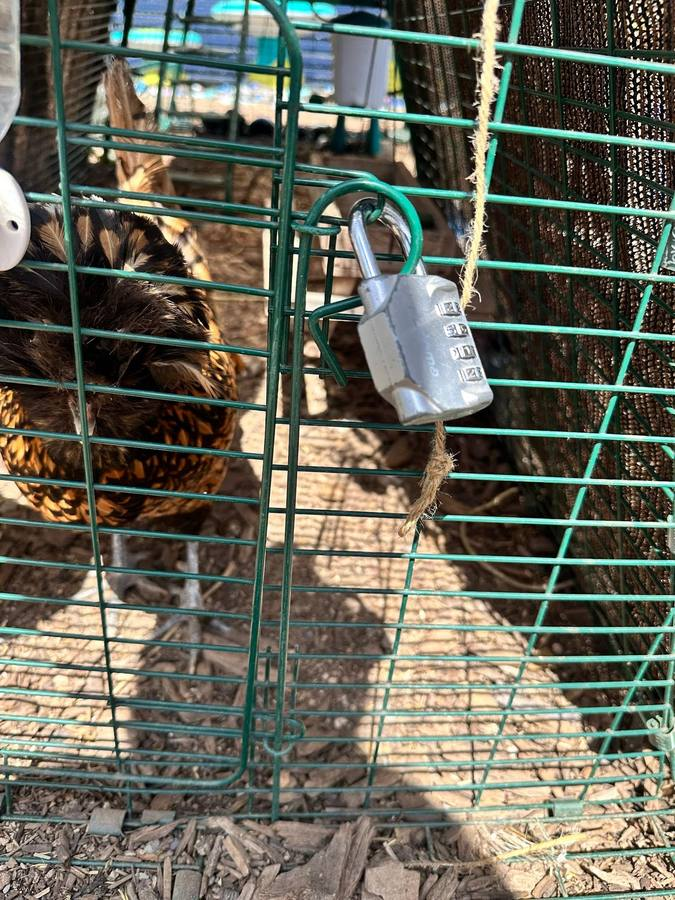
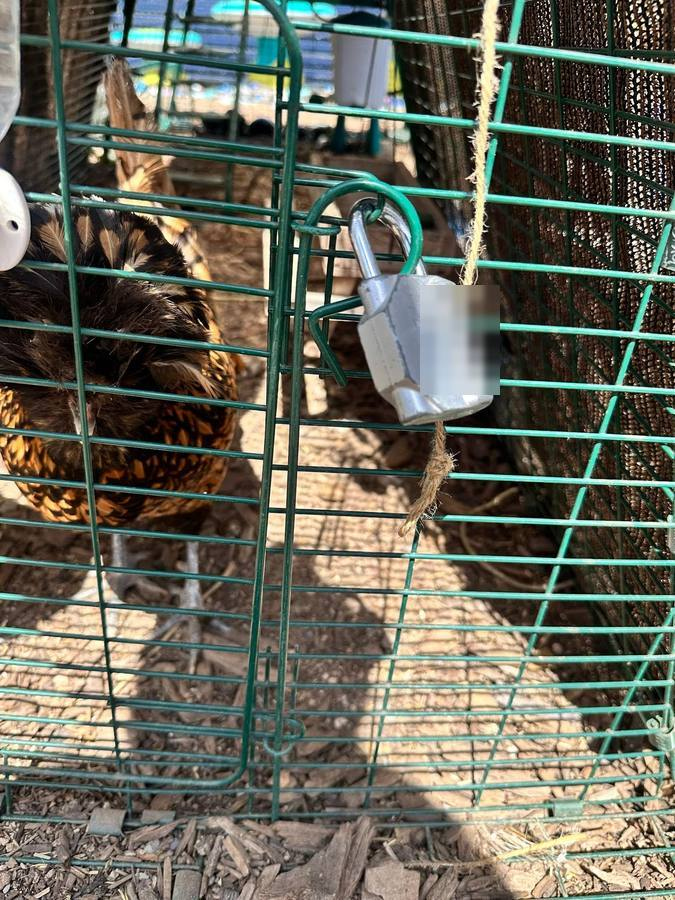
How-to: volunteers ask Yvy for the lock code instead of reading it on the site
Drops the shed lock photo (its dials showed the code) and blurs the
chicken run lock's dials.

Changed region(s): [[0.6222, 0.3111, 0.7467, 0.4356]]

diff --git a/js/data.js b/js/data.js
@@ -1617,7 +1617,8 @@ window.YVY = {
    * HOW-TO (Garden Society → 📖 How-to tab, built by js/howto.js): step-by-step photo guides from the
    * volunteer directions doc. Photos are in images/howto/ (pics: { file name: alt text }).
    * A step can be a name from shared ("shed", "faucet") to drop in those steps, so guides that start the
-   * same way only say it once. {code} in a step is filled in with code.
+   * same way only say it once. {code} in a step becomes a note to ask Yvy for the lock code (askCode).
+   * The code itself never goes on the site: volunteers get it from Yvy.
    * Map spots and Volunteer Days jobs with howto: "<key>" get a button that opens that guide.
    */
   howTo: {
@@ -1625,11 +1626,11 @@ window.YVY = {
     title: "Volunteer How-to",
     intro: "Step-by-step pictures for watering and chicken care. Tap a photo to see it big!",
     rule: "Please don't go into any rooms or use the electricity.",
-    code: "5055", // the shed and chicken-area code
+    askCode: "Ask Yvy for the code",
     shared: {
       shed: [
         { text: "Go into the Central Garden. The shed with the schedules is next to the YMCA room.", pics: { shed: "The garden shed's doors with the schedules taped on" } },
-        { text: "Unlock the shed. The code is {code}.", pics: { "shed-lock": "The shed's combination lock" } },
+        { text: "Unlock the shed with the lock code. {code}" },
         { text: "The watering key hangs on a magnetic strip on the left side of the shed. Always put it back there when you're done.", pics: { "key-strip": "The watering key on its magnetic strip" } },
       ],
       faucet: [
@@ -1674,12 +1675,12 @@ window.YVY = {
       ] },
       { key: "chickens", button: "🐔 Chicken Care", title: "Chicken Care", when: "Mondays, Wednesdays and Fridays (anyone can check their food and water any day)",
         note: "Yes, you can let the chickens out in the gated area!", steps: ["shed", "faucet",
-        { text: "The chicken areas open with the same code, {code}.", pics: { "run-lock": "The lock on the chicken run" } },
+        { text: "The chicken areas open with the same code as the shed.", pics: { "run-lock": "The lock on the chicken run" } },
         { text: "On chicken days we water the Central Garden too. Turn on knob 2 (the long hose): it fills the auto water jug under the coop.", pics: { "chicken-hose": "The long hose hooked up to the chickens' water" } },
         { text: "Then fill the water feeders on the run's gate at the Central Garden sink.", pics: { "gate-feeders": "Two water feeders on the run's gate" } },
         { text: "The auto water feeder: check that it's full by taking out the coop's trays.", pics: { "auto-feeder": "The auto water feeder under the coop" } },
         { text: "The coop: turn the knob to unlock it and pull. Then you can check for eggs, pull out the trays to clean them and check the auto water feeder. Don't force the trays back in!", pics: { coop: "The coop's door knob" } },
-        { text: "To feed them, open the run with the code {code}. Their feeder is the green bin closest to the run's gate.", pics: { feeder: "The green feeder in the run" } },
+        { text: "To feed them, open the run with the same code. Their feeder is the green bin closest to the run's gate.", pics: { feeder: "The green feeder in the run" } },
         { text: "Their feed is in this container at the back. Fill the feeder up to the opening with the scoop (tilting it a little makes it easier to pour).", pics: { "feed-bin": "The white feed container" } },
         { text: "To clean the trays, collect the eggs first. Put them in the egg cartons in the cardboard box on the bottom of the rack next to the Central Garden sink, with a card labeled with the date. Pull out the trays, put the droppings in the big green bin and close it, then clean the trays with the hose and Clorox wipes (in the shed, with latex-free gloves if you want). Let them dry, then slide them back in.",
           pics: { "droppings-bin": "The big green bin for droppings" } },

diff --git a/index.html b/index.html
@@ -9,10 +9,10 @@
   <link rel="preconnect" href="https://fonts.googleapis.com">
   <link rel="preconnect" href="https://fonts.gstatic.com" crossorigin>
   <link href="https://fonts.googleapis.com/css2?family=Chewy&family=Fredoka:wght@400;600;700&family=Gochi+Hand&family=Press+Start+2P&display=swap" rel="stylesheet">
-  <link rel="stylesheet" href="css/style.css?v=2026-10-28l">
-  <link rel="stylesheet" href="css/society.css?v=2026-10-28l">
-  <link rel="stylesheet" href="css/portfolio.css?v=2026-10-28l">
-  <link rel="stylesheet" href="css/extras.css?v=2026-10-28l">
+  <link rel="stylesheet" href="css/style.css?v=2026-10-30">
+  <link rel="stylesheet" href="css/society.css?v=2026-10-30">
+  <link rel="stylesheet" href="css/portfolio.css?v=2026-10-30">
+  <link rel="stylesheet" href="css/extras.css?v=2026-10-30">
 </head>
 <body>
 
@@ -564,16 +564,16 @@
     </div>
   </div>
 
-  <script src="js/data.js?v=2026-10-28l"></script>
-  <script src="js/pixels.js?v=2026-10-28l"></script>
-  <script src="js/veg-icons.js?v=2026-10-28l"></script>
-  <script src="js/main.js?v=2026-10-28l"></script>
-  <script src="js/society.js?v=2026-10-28l"></script>
-  <script src="js/howto.js?v=2026-10-28l"></script>
-  <script src="js/garden-map.js?v=2026-10-28l"></script>
-  <script src="js/portfolio.js?v=2026-10-28l"></script>
-  <script src="js/extras.js?v=2026-10-28l"></script>
-  <script src="js/emoji-sprites.js?v=2026-10-28l"></script>
-  <script src="js/pixel-emoji.js?v=2026-10-28l"></script>
+  <script src="js/data.js?v=2026-10-30"></script>
+  <script src="js/pixels.js?v=2026-10-30"></script>
+  <script src="js/veg-icons.js?v=2026-10-30"></script>
+  <script src="js/main.js?v=2026-10-30"></script>
+  <script src="js/society.js?v=2026-10-30"></script>
+  <script src="js/howto.js?v=2026-10-30"></script>
+  <script src="js/garden-map.js?v=2026-10-30"></script>
+  <script src="js/portfolio.js?v=2026-10-30"></script>
+  <script src="js/extras.js?v=2026-10-30"></script>
+  <script src="js/emoji-sprites.js?v=2026-10-30"></script>
+  <script src="js/pixel-emoji.js?v=2026-10-30"></script>
 </body>
 </html>

diff --git a/society-admin.html b/society-admin.html
@@ -9,8 +9,8 @@
   <link rel="preconnect" href="https://fonts.googleapis.com">
   <link rel="preconnect" href="https://fonts.gstatic.com" crossorigin>
   <link href="https://fonts.googleapis.com/css2?family=Chewy&family=Fredoka:wght@400;600;700&family=Gochi+Hand&display=swap" rel="stylesheet">
-  <link rel="stylesheet" href="css/style.css?v=2026-10-28l">
-  <link rel="stylesheet" href="css/society.css?v=2026-10-28l">
+  <link rel="stylesheet" href="css/style.css?v=2026-10-30">
+  <link rel="stylesheet" href="css/society.css?v=2026-10-30">
 </head>
 <body class="adm-body">
   <main class="adm">
@@ -137,8 +137,8 @@
     </div>
   </main>
 
-  <script src="js/data.js?v=2026-10-28l"></script>
-  <script src="js/garden-map.js?v=2026-10-28l"></script>
-  <script src="js/society-admin.js?v=2026-10-28l"></script>
+  <script src="js/data.js?v=2026-10-30"></script>
+  <script src="js/garden-map.js?v=2026-10-30"></script>
+  <script src="js/society-admin.js?v=2026-10-30"></script>
 </body>
 </html>

diff --git a/js/howto.js b/js/howto.js
@@ -13,9 +13,9 @@
   const esc = (s) => String(s == null ? "" : s).replace(/[&<>"']/g, (c) => (
     { "&": "&amp;", "<": "&lt;", ">": "&gt;", '"': "&quot;", "'": "&#39;" }[c]
   ));
-  // {code} in a step's text becomes the shed code, shown big so it's easy to spot
-  const words = (t) => esc(t).replace(/\{code\}/g, `<b class="howto-code">${esc(H.code)}</b>`);
-  const plain = (t) => t.replace(/\{code\}/g, H.code);
+  // {code} in a step's text becomes a "🔒 Ask Yvy for the code" tag: the lock code never goes on the site
+  const words = (t) => esc(t).replace(/\{code\}/g, `<b class="howto-code">🔒 ${esc(H.askCode)}</b>`);
+  const plain = (t) => t.replace(/\{code\}/g, `(${H.askCode}.)`);
   // A guide's steps, with "shed" / "faucet" swapped for those shared steps
   const stepsOf = (g) => g.steps.flatMap((s) => (typeof s === "string" ? H.shared[s] || [] : [s]));
   const src = (name) => `images/howto/${name}.jpg`;

diff --git a/css/society.css b/css/society.css
@@ -887,7 +887,7 @@ button.gm-spot:focus-visible { outline: 3px dashed var(--pink); outline-offset: 
 .howto-pic img { display: block; width: 100%; aspect-ratio: 4 / 3; object-fit: cover; object-position: 50% 50%; transition: transform .2s; }
 .howto-pic:hover img { transform: scale(1.04); }
 .howto-pic:focus-visible { outline: 3px dashed var(--pink); outline-offset: 2px; }
-.howto-code { padding: 0 5px; border-radius: 4px; background: var(--ink); color: var(--yellow); font: 11px var(--f-pixel); letter-spacing: 2px; }
+.howto-code { display: inline-block; padding: 1px 8px; border-radius: 999px; background: var(--ink); color: var(--yellow); font: 700 13px var(--f-round); white-space: nowrap; }
 /* How-to links on the map: a spot's speech box and each Volunteer Days job */
 .gm-howto { margin-right: 6px; background: var(--purple); }
 .gm-day-how {

diff --git a/AGENTS.md b/AGENTS.md
@@ -35,7 +35,7 @@ Keep new work in that retro-but-cute style. It's meant to feel 2000s-maximalist,
 | `resume.html`, `js/resume-page.js`, `css/resume-page.css` | Plain printable résumé ("📄 boring printable version"), built from the same `data.js` → `resume`. Print → Save as PDF |
 | `js/society.js`, `css/society.css` | Garden Society section (journal, projects, compost chart, submit form). Talks to `society-api/`. The Almanac and 🗺 Map tabs are already on the page. "Submit an entry" also takes compost temps, bed feedings and done to-dos from members (pending until Yvy approves; pending to-dos show a yellow "?" on the map, and the map's "I did one!" button opens the form at that spot) |
 | `js/garden-map.js` | The Central Garden as a pixel map (Map tab; links to `#map` open it). Spots in `data.js` → `gardenMap`, traced on a 40×53 grid; more maps (the Middle School Garden) go in `gardenMap.otherMaps` with their own `cols`/`rows`, and buttons above the map switch between them; textures are 4×4 SVG tiles in `css/society.css` (`--t-*`). Each bed shows its to-dos (crossed off from the admin page), feeding calendar and feeding log; feedings and crossed-off to-dos come from the API (`/api/garden`), keyed by the spot's `id`. Buttons above the map: 🗺 General (the plain map, what it opens on) and the Volunteer Days (`gardenMap.volunteerDays`: Mon & Fri water, Wed checks, Everyone), which outline their spots in pink and list their jobs under the speech box. Volunteers check jobs off with "I did some!" (Submit an entry → 📋 Volunteer Days): each day's own jobs are a pseudo-spot (`vd-mf`, `vd-w`, `vd-all`; `window.YvyGarden.volunteer`) whose weekly jobs reset on the day's `resets` weekdays, and a job with `share` checks off its spots' matching chores instead, so nothing is counted twice. The admin page shows each day as a card too. The admin page loads this file too, for `window.YvyGarden` (to-do ids, next-feeding dates) |
-| `js/howto.js` | The Garden Society's 📖 How-to tab (`#howto`): step-by-step photo guides for watering the Central Garden, Kinder and Middle School beds, and chicken care, from Yvy's volunteer directions doc. Content in `data.js` → `howTo` (shared `shed`/`faucet` steps, `{code}` filled in from `howTo.code`); photos in `images/howto/`. Map spots and Volunteer Days jobs with `howto: "<guide key>"` get a button that opens that guide; photos open in the main lightbox (`window.YvyLightbox`) |
+| `js/howto.js` | The Garden Society's 📖 How-to tab (`#howto`): step-by-step photo guides for watering the Central Garden, Kinder and Middle School beds, and chicken care, from Yvy's volunteer directions doc. Content in `data.js` → `howTo` (shared `shed`/`faucet` steps; `{code}` shows "🔒 Ask Yvy for the code". The lock code itself never goes on the site, and the photos must not show it); photos in `images/howto/`. Map spots and Volunteer Days jobs with `howto: "<guide key>"` get a button that opens that guide; photos open in the main lightbox (`window.YvyLightbox`) |
 | `society-admin.html`, `js/society-admin.js` | Yvy's private admin page: approve/reject Society submissions and guestbook signatures, manage projects, log compost temps, cross off garden to-dos and log feedings (🌱 Garden tab, also where members' temps and feedings get approved), add Hall of Fame students and photos, delete arcade scores (password-protected by the API; `noindex`) |
 | `society-api/` | Cloudflare Worker + D1 database + KV photo storage backend for the Garden Society, garden map log (feedings, crossed-off to-dos), guestbook, visitor counter, arcade high scores and hall of fame (deploy steps in its README). Excluded from Pages |
 | `OPEN_ITEMS.md` | Running to-do list for the project |
